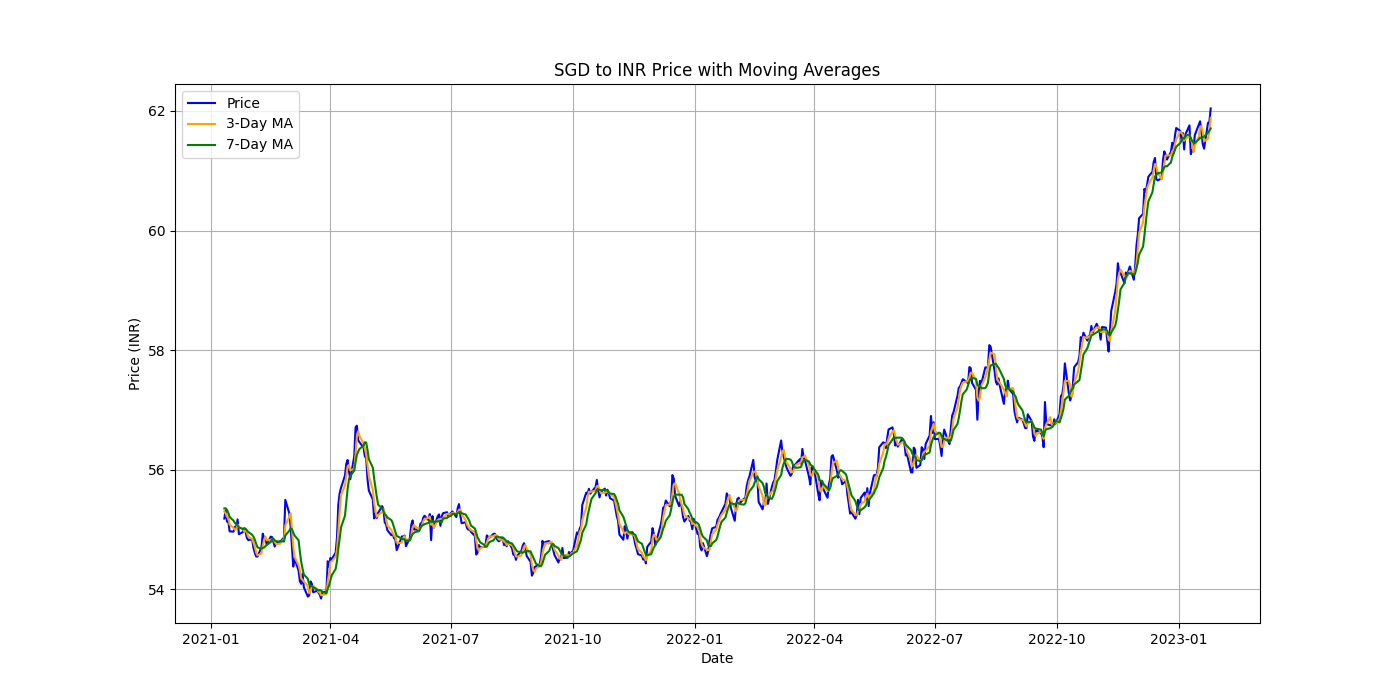
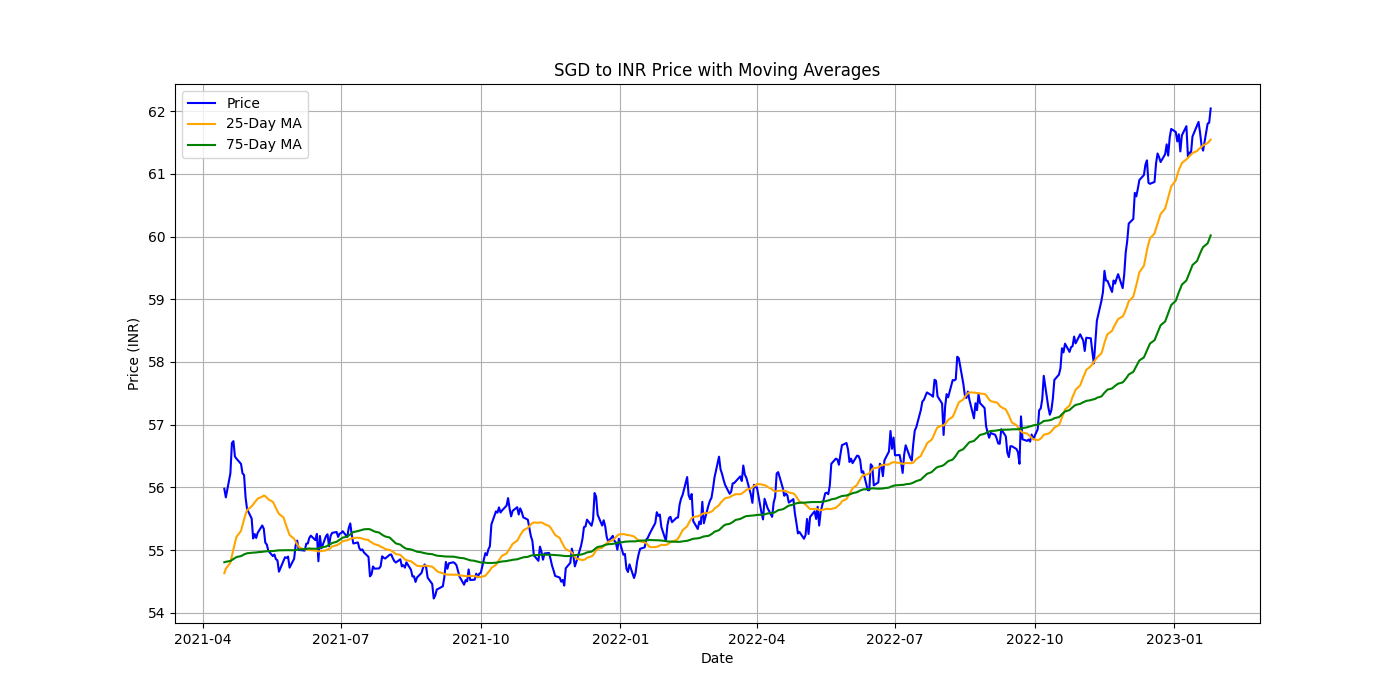
random_forest_initial

diff --git a/portfolio.py b/portfolio.py
@@ -46,13 +46,19 @@ def feature_engineering(df):
     df['MA_25'] = df['Price'].rolling(window=25).mean()
     df['MA_75'] = df['Price'].rolling(window=75).mean()
     df['MA_Ratio'] = df['MA_25'] / df['MA_75']
+    df['Change'] = df['Price'].pct_change()
+    df['Price_Lag1'] = df['Price'].shift(1)
+    df['Price_Lag2'] = df['Price'].shift(2)
+    df['Change_Lag1'] = df['Change'].shift(1)
+    df['Change_Lag2'] = df['Change'].shift(2)
+
     df.dropna(inplace=True)
     return df
 describe_data(df)
-df = preprocess_data(df)
-print(df.head())
-df = feature_engineering(df)
-print(df.head())
+#df = preprocess_data(df)
+#print(df.head())
+#df = feature_engineering(df)
+#print(df.head())
 
 def plot_data(df):
     plt.figure(figsize=(14, 7))
@@ -67,7 +73,7 @@ def plot_data(df):
     plt.savefig("sgd_inr_prediction.png")
     
 def datasplit(df):
-    features = ['Open', 'High', 'Low', 'Change', 'Daily_Range', 'Volatility', 'MA_3', 'MA_7', 'MA_Ratio']
+    features = ['Open', 'High', 'Low', 'Daily_Range', 'Volatility', 'MA_25', 'MA_75', 'MA_Ratio','Price_Lag1', 'Price_Lag2', 'Change_Lag1', 'Change_Lag2']
     X = df[features]
     y = df['Target']
     train_size = int(len(df) * 0.8)
@@ -84,5 +90,32 @@ def plot_correlation_matrix(df):
     plt.savefig("correlation_matrix.png")
     
     
-plot_correlation_matrix(df)
+#plot_correlation_matrix(df)
 
+def train_model(X_train, y_train):
+    from sklearn.ensemble import RandomForestClassifier
+    model = RandomForestClassifier(n_estimators=100, random_state=42,class_weight='balanced')
+    model.fit(X_train, y_train)
+    return model
+
+def evaluate_model(model, X_test, y_test):
+    from sklearn.metrics import classification_report, accuracy_score
+    y_pred = model.predict(X_test)
+    print("Classification Report:")
+    print(classification_report(y_test, y_pred))
+    print("Accuracy:", accuracy_score(y_test, y_pred))
+
+def main():
+    df = pd.read_csv('SGD_INR Historical Data.csv')
+    df = preprocess_data(df)
+    df = feature_engineering(df)
+    plot_data(df)
+    X_train, X_test, y_train, y_test = datasplit(df)
+    model = train_model(X_train, y_train)
+    evaluate_model(model, X_test, y_test)
+    
+if __name__ == "__main__":
+    main()
+    print("Model training and evaluation completed.")
+    print("Plots saved as 'sgd_inr_prediction.png' and 'correlation_matrix.png'.")
+    
